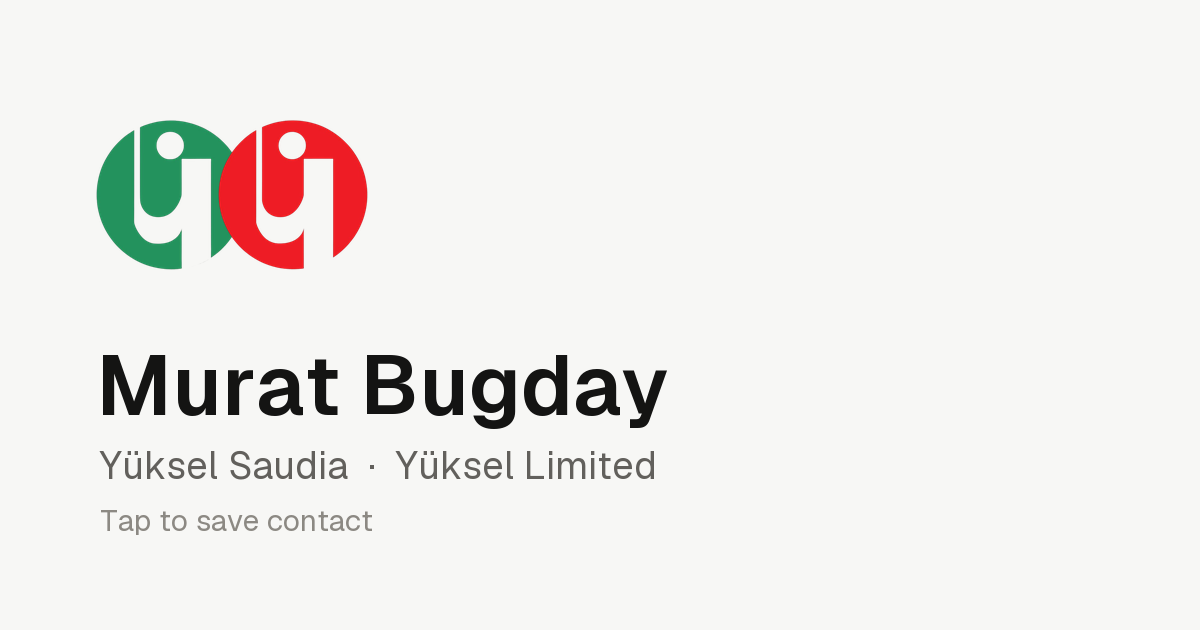
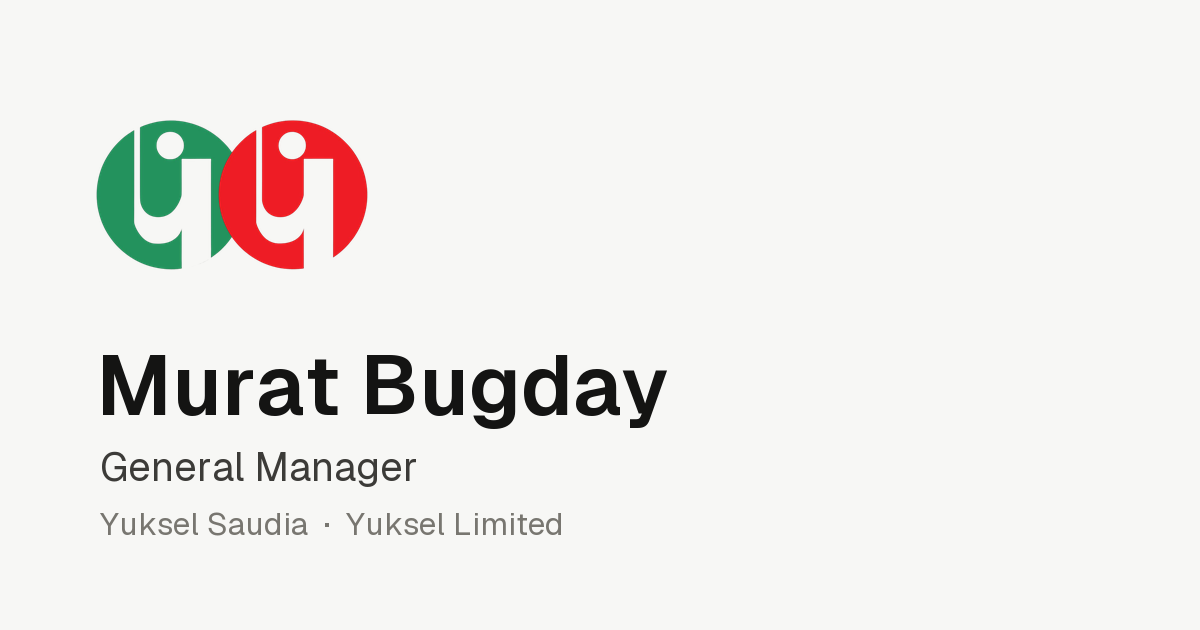
Add General Manager title, spell Yuksel without diacritics

Changed region(s): [[0.0617, 0.6937, 0.555, 0.7841], [0.0617, 0.8143, 0.4933, 0.8746]]

diff --git a/index.html b/index.html
@@ -3,10 +3,10 @@
 <head>
 <meta charset="utf-8">
 <meta name="viewport" content="width=device-width, initial-scale=1, viewport-fit=cover">
-<title>Murat Bugday · Yüksel</title>
-<meta name="description" content="Murat Bugday — Yüksel Saudia. Call, email or save contact.">
+<title>Murat Bugday · Yuksel</title>
+<meta name="description" content="Murat Bugday — General Manager, Yuksel Saudia. Call, email or save contact.">
 <meta property="og:title" content="Murat Bugday">
-<meta property="og:description" content="Yüksel Saudia · Yüksel Limited — tap to save contact">
+<meta property="og:description" content="General Manager · Yuksel Saudia · Yuksel Limited">
 <meta property="og:image" content="https://muratbugday.yukselsaudia.com.sa/assets/og.png">
 <meta property="og:type" content="profile">
 <meta name="twitter:card" content="summary_large_image">
@@ -326,10 +326,10 @@
     <script>
       var l = document.getElementById("logo");
       l.src = "assets/logo-" + BRAND + ".png";
-      l.alt = (BRAND === "ltd" ? "Yüksel Limited" : "Yüksel Saudia") + " logo";
+      l.alt = (BRAND === "ltd" ? "Yuksel Limited" : "Yuksel Saudia") + " logo";
     </script>
     <h1 class="pre" style="--i:0">Murat Bugday</h1>
-    <p class="sub pre" style="--i:1" data-company>Yüksel Saudia</p>
+    <p class="sub pre" style="--i:1">General Manager</p>
     <nav class="actions pre" style="--i:2" aria-label="Quick actions">
       <a class="action" href="tel:+966112931000" data-ripple="light">
         <svg viewBox="0 0 24 24" width="20" height="20" aria-hidden="true"><path d="M6.62 10.79c1.44 2.83 3.76 5.14 6.59 6.59l2.2-2.2c.27-.27.67-.36 1.02-.24 1.12.37 2.33.57 3.57.57.55 0 1 .45 1 1V20c0 .55-.45 1-1 1-9.39 0-17-7.61-17-17 0-.55.45-1 1-1h3.5c.55 0 1 .45 1 1 0 1.25.2 2.45.57 3.57.11.35.03.74-.25 1.02l-2.2 2.2z"/></svg>
@@ -353,7 +353,7 @@
     </a>
     <div class="row pre" style="--i:5">
       <svg viewBox="0 0 24 24" aria-hidden="true"><path d="M20 6h-4V4c0-1.11-.89-2-2-2h-4c-1.11 0-2 .89-2 2v2H4c-1.11 0-1.99.89-1.99 2L2 19c0 1.11.89 2 2 2h16c1.11 0 2-.89 2-2V8c0-1.11-.89-2-2-2zm-6 0h-4V4h4v2z"/></svg>
-      <span class="meta"><b data-company>Yüksel Saudia</b><small>Company</small></span>
+      <span class="meta"><b data-company>Yuksel Saudia</b><small>General Manager</small></span>
     </div>
     <a class="row pre" style="--i:6" href="https://www.yukselsaudia.com" target="_blank" rel="noopener" data-ripple>
       <svg viewBox="0 0 24 24" aria-hidden="true"><path d="M12 2C6.48 2 2 6.48 2 12s4.48 10 10 10 10-4.48 10-10S17.52 2 12 2zm-1 17.93c-3.95-.49-7-3.85-7-7.93 0-.62.08-1.21.21-1.79L9 15v1c0 1.1.9 2 2 2v1.93zm6.9-2.54c-.26-.81-1-1.39-1.9-1.39h-1v-3c0-.55-.45-1-1-1H8v-2h2c.55 0 1-.45 1-1V7h2c1.1 0 2-.9 2-2v-.41c2.93 1.19 5 4.06 5 7.41 0 2.08-.8 3.97-2.1 5.39z"/></svg>
@@ -379,7 +379,7 @@
 <script>
   (function () {
     var key = window.BRAND;
-    var company = key === "ltd" ? "Yüksel Limited" : "Yüksel Saudia";
+    var company = key === "ltd" ? "Yuksel Limited" : "Yuksel Saudia";
     var root = document.documentElement;
 
     document.querySelectorAll("[data-company]").forEach(function (el) { el.textContent = company; });
